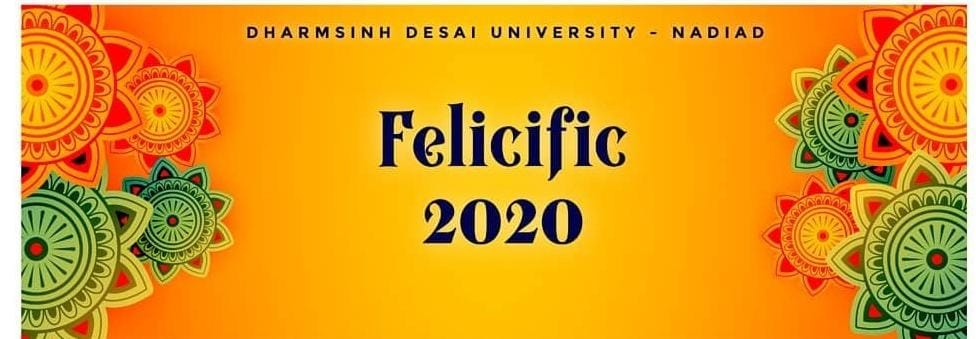
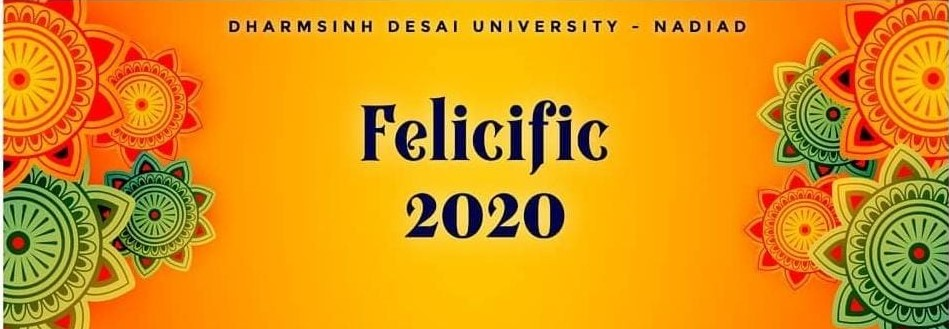
Source code with video link

diff --git a/techfest/footer.html b/techfest/footer.html
@@ -2,16 +2,19 @@
     <div align="center">
         <ul><br>
             <li>
-                <a href="#"><img src="https://img.icons8.com/fluent/50/000000/facebook-new.png"/></a>
+                <a href="https://www.facebook.com/Felicific2k17/" target="_blank">
+                <img src="https://img.icons8.com/fluent/50/000000/facebook-new.png"/></a>
             </li>
             <li>
-                <a href="#"><img src="https://img.icons8.com/fluent/48/000000/instagram-new.png"/></a>
+                <a href="https://instagram.com/felicific.2020?igshid=ywokyfe9g0ht" target="_blank">
+                <img src="https://img.icons8.com/fluent/48/000000/instagram-new.png"/></a>
             </li>
             <li>
                 <a href="#"><img src="https://img.icons8.com/fluent/48/000000/twitter.png"/></a>
             </li>
             <br><br>
-            <p><a>Dharmsinh Desai University</a></p>
+            <p><a>Dharmsinh Desai University,Nadiad</a></p>
+            <p><a>Felicific</a></p>
             <br>
         </ul>
     </div>

diff --git a/techfest/css/style.css b/techfest/css/style.css
@@ -138,16 +138,7 @@ fieldset{
     float: left;
 }
 
-.tech-menu-desc{
-    width: 70%;
-    float: left;
-    margin-left: 8%;
-}
 
-.tech-price{
-    font-size: 1.2rem;
-    margin: 2% 0;
-}
 .tech-detail{
     font-size: 1rem;
     color: #747d8c;
@@ -198,4 +189,4 @@ input[type=text], select, textarea {
     margin-top: 6px;
     margin-bottom: 16px;
     resize: vertical;
-  }
+}

diff --git a/techfest/config.php b/techfest/config.php
@@ -1,6 +1,7 @@
 <?php
 	try{
-		$dbhandler = new PDO('mysql:host=sql310.epizy.com;dbname=epiz_28240927_techfest','epiz_28240927','hO0llLJNyjUzbXL');
+		/* $dbhandler = new PDO('mysql:host=sql310.epizy.com;dbname=epiz_28240927_techfest','epiz_28240927','hO0llLJNyjUzbXL'); */
+		$dbhandler = new PDO('mysql:host=localhost;dbname=techfest','root','');
 		$dbhandler->setAttribute(PDO::ATTR_ERRMODE,PDO::ERRMODE_EXCEPTION); 	
 	}
 	catch(PDOException $e){

diff --git a/techfest/contact.php b/techfest/contact.php
@@ -73,6 +73,7 @@
 </head>
 
 <body>    
+<br><br>
     <div class="containercon" >    
         <form   action="<?php echo htmlspecialchars($_SERVER["PHP_SELF"]); ?>" method="post">   
 
@@ -95,7 +96,7 @@
             <input type="submit" name="submit" value="Submit" class="btn btn-primary">
             
         </form>
-    </div><br><br>
+    </div><br><br><br>
     <?php include('footer.html')?>
   
 </body>

diff --git a/techfest/index.php b/techfest/index.php
@@ -14,7 +14,7 @@
 <body>
     <?php include('header.html') ?>
         <div class="float-container">
-            <img src="images/felicif.jpeg" alt="2" class="img-responsive img-curve" width="500px" height="500px">
+            <img src="images/feli.jpeg" alt="2" class="img-responsive img-curve" height="400px">
         </div>
         
     <section class="categories">

diff --git a/techfest/register.php b/techfest/register.php
@@ -15,8 +15,6 @@
 
     foreach($r as $t){
         if($t['remain_team'] == 0){
-            // $err = "No Space Available Please try again next year";
-            // echo "<h4 align='center'>No Space Available Please try again next year</h4>";
             header('Location:noseats.php');
         
         }
